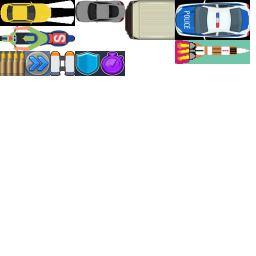
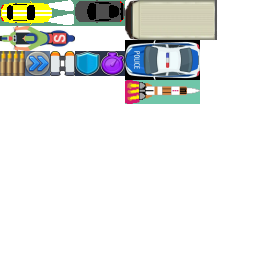
image + idées.

Changed region(s): [[0.4688, 0.0, 1.0, 0.4062], [0.0, 0.0, 0.5, 0.125]]

diff --git a/le_vrai_projet.py b/le_vrai_projet.py
@@ -54,12 +54,48 @@ def save_high_score(score):
     with open("high_score.txt", "w") as file: # Ouverture du fichier ou création du fichier avec le record
         file.write(str(score)) # Insertion du record dans le fichier
 
+def couleurs_jeu():
+    py.colors[0] = 0x000000   # ( noir )
+    py.colors[1] = 0xffffff   # (  blanc )   #blanc -> Touches + phares voiture
+    py.colors[2] = 0xffff00   # (  jaune )   #jaune -> voiture + munitions + fusee
+    py.colors[3] = 0x0000ff   # (  bleu )   #bleu -> police + shield + dash
+    py.colors[4] = 0xff0000   # (  rouge )   #rouge -> fusee + police
+    py.colors[5] = 0x787878   # (  gris )   #gris -> dash + ennemi_1 + fusee
+    py.colors[6] = 0xff9600   # (  orange )   #orange -> fusee x2
+    py.colors[7] = 0xff00ff   # (  violet )   #violet -> slow
+    py.colors[8] = 0x00ff00   # (  vert )   # moto
+    # 9 = 0x    (   )   #
+    # 10 = 0x    (   )   #
+    # 11 = 0x    (   )   #
+    # 12 = 0x    (   )   #
+    # 13 = 0x    (   )   #
+    # 14 = 0x    (   )   #
+    py.colors[15] = 0x5ea080   # (  couleur moche ) # Couleur "inutile", servira à faire le fond des documents ressources et à l'utiliser comme couleur transparente.
 
+couleurs_jeu()
+
+def reinitialiser_couleur():
+    py.colors[0] = 0x000000
+    py.colors[1] = 0x2b335f
+    py.colors[2] = 0x7e2072
+    py.colors[3] = 0x19959c
+    py.colors[4] = 0x8b4852
+    py.colors[5] = 0x395c98
+    py.colors[6] = 0xa9c1ff
+    py.colors[7] = 0xeeeeee
+    py.colors[8] = 0xd4186c
+    py.colors[9] = 0xd38441
+    py.colors[10] = 0xe9c35b
+    py.colors[11] = 0X70c6a9
+    py.colors[12] = 0x7696de
+    py.colors[13] = 0xa3a3a3
+    py.colors[14] = 0xff9798
+    py.colors[15] = 0xedc7b0
 
 def initialisation_valeur_jeu():
     global SCORE_COLOR, menu_active, show_settings, affichage_debut, x_joueur, y_joueur, vivant, game_over, liste_obstacles_1, liste_obstacles_2, liste_obstacles_3, liste_obstacles_4, liste_bonus, obstacle_interval, score, obstacle_genere, vitesse_de_deplacement_ennemi, dash, fusee, tps_fusee, rayon_onde, liste_onde, mode_onde, fusee_ready, fusee_get, calibrage, liste_missiles, liste_explosion, rayon_explosion, tps_slow, nb_missiles, shield, liste_nid, high_score
     
-    SCORE_COLOR = 7
+    SCORE_COLOR = 1
     menu_active = False
     show_settings = False
     affichage_debut = True
@@ -187,7 +223,7 @@ def affichage_debut_jeu():
     if py.frame_count % 30 > 20:
         col = 0
     else:
-        col=7
+        col=1
 
     py.text(260,180,"PRESS ENTER TO START",col)
 
@@ -217,20 +253,20 @@ def update_settings():
             return_to_menu()
 
 def draw_settings():
-    py.text(50, 30, "Settings", 7)
+    py.text(50, 30, "Settings", 1)
     
-    py.blt(90 , 100 , 1 , 0 , 193 , 205 , 30) #Config 1
-    py.blt(90 , 200 , 1 , 0 , 223 , 207 , 30)  #Config 2
-    py.blt(300 , 20 , 1 , 0 , 150 , 150 , 44)#Touches deplacement
-    py.blt(470 , 20 , 1 , 150 , 136 , 106 , 49)#touches bonus
-    py.blt(315 , 80 , 1 , 0 , 0 , 128 , 78)#touches dp 1 zqsd
-    py.blt(315 , 180 , 1 , 128 , 0 , 128 , 80)#touches dp 2 flèches
-    py.blt(460 , 82 , 1 , 0 , 78 , 128 , 72)#touches bonus 1 aer
-    py.blt(460 , 190 , 1 , 128 , 80 , 128 , 56)#touches bonus 2 :!
+    py.blt(90 , 100 , 1 , 0 , 193 , 205 , 30, 15) #Config 1
+    py.blt(90 , 200 , 1 , 0 , 223 , 207 , 30, 15)  #Config 2
+    py.blt(300 , 20 , 1 , 0 , 150 , 150 , 44, 15)#Touches deplacement
+    py.blt(470 , 20 , 1 , 150 , 136 , 106 , 49, 15)#touches bonus
+    py.blt(315 , 80 , 1 , 0 , 0 , 128 , 78, 15)#touches dp 1 zqsd
+    py.blt(315 , 180 , 1 , 128 , 0 , 128 , 80, 15)#touches dp 2 flèches
+    py.blt(460 , 82 , 1 , 0 , 78 , 128 , 72, 15)#touches bonus 1 aer
+    py.blt(460 , 190 , 1 , 128 , 80 , 128 , 56, 15)#touches bonus 2 :!
     
-    retour_color = 7
+    retour_color = 1
     if 240 <= py.mouse_y <= 260 and 45 <= py.mouse_x <= 95:
-        retour_color = 11  # Change la couleur du bouton "Retour" si la souris le survole
+        retour_color = 4  # Change la couleur du bouton "Retour" si la souris le survole
     py.rectb(45, 240, 50, 20, retour_color)
     py.text(50, 250, "Back", retour_color)
 
@@ -251,20 +287,20 @@ def update_menu():
 def draw_menu():
     global col1
     
-    py.text(50, 30, "MIDNIGHT DRIVE", 7)
-    py.text(125, 50, "A game developed by Famoso Engine", 7)
+    py.text(50, 30, "MIDNIGHT DRIVE", 1)
+    py.text(125, 50, "A game developed by Famoso Engine", 1)
     
-    start_color = 7
-    quit_color = 7
-    settings_color = 7
+    start_color = 1
+    quit_color = 1
+    settings_color = 1
 
     if 75 <= py.mouse_x <= 125:
         if 80 <= py.mouse_y <= 100:
-            start_color = 11  # Change la couleur du bouton "Démarrer" si la souris le survole
+            start_color = 4  # Change la couleur du bouton "Démarrer" si la souris le survole
         elif 110 <= py.mouse_y <= 130:
-            settings_color = 11  # Change la couleur du bouton "Paramètres" si la souris le survole
+            settings_color = 4  # Change la couleur du bouton "Paramètres" si la souris le survole
         elif 140 <= py.mouse_y <= 160:
-            quit_color = 11  # Change la couleur du bouton "Quitter" si la souris le survole
+            quit_color = 4  # Change la couleur du bouton "Quitter" si la souris le survole
 
     py.rectb(75, 80, 50, 20, start_color)
     py.text(84, 85, "Drive", start_color)
@@ -273,15 +309,15 @@ def draw_menu():
     py.rectb(75, 140, 50, 20, quit_color)
     py.text(86, 145, "Leave", quit_color)
     
-    py.rectb(380, 120, 210, 170, 8)
-    py.text(470 , 135 , "NEWS" , 6)
-    py.text(390, 155, "- Press ALT + 9 to switch between 3 screen modes", 7)
-    py.text(390, 175, "- The game is still in developpment, some bugs",7)
-    py.text(390,195,"can still appear.", 7)
+    py.rectb(380, 120, 210, 170, 4)
+    py.text(470 , 135 , "NEWS" , 4)
+    py.text(390, 155, "- Press ALT + 9 to switch between 3 screen modes", 1)
+    py.text(390, 175, "- The game is still in developpment, some bugs",1)
+    py.text(390,195,"can still appear.", 1)
     
-    py.blt( 200 , 200, 0 , 0 , 0 , 75 , 26, 0)
+    py.blt( 200 , 200, 0 , 0 , 0 , 75 , 26, 15)
     
-    py.text(500,293,"Actual version: 0.1.1", 7)
+    py.text(500,293,"Actual version: 0.1.1", 1)
     
     if py.frame_count % 2 == 0:
         col1 += 1
@@ -775,7 +811,7 @@ def explosion():
             
 def lancer_missiles():
     global nb_missiles
-    if py.btnp(py.KEY_SPACE) or py.btnp(py.KEY_E) and nb_missiles > 0:
+    if (py.btnp(py.KEY_SPACE) and nb_missiles > 0) or (py.btnp(py.KEY_E) and nb_missiles > 0):
         nb_missiles -= 1
         liste_missiles.append([x_joueur + PLAYER_WIDTH, y_joueur + PLAYER_HEIGHT/3])
         liste_missiles.append([x_joueur + PLAYER_WIDTH, y_joueur + (PLAYER_HEIGHT/3)*2])
@@ -1078,7 +1114,7 @@ def Fin():
     if py.frame_count % 30 > 20:
         col = 0
     else:
-        col=7
+        col=1
 
     py.text(WINDOW_WIDTH // 2, WINDOW_HEIGHT - 70, "Press R to restart and M to go to the menu", col)
 
@@ -1105,39 +1141,39 @@ def draw_jeu():
             liste_onde.append([x_joueur, y_joueur])
             mode_onde = False
         elif fusee_ready == False:
-            py.rect(x_joueur, y_joueur, PLAYER_WIDTH, PLAYER_HEIGHT, 7)
+            py.rect(x_joueur, y_joueur, PLAYER_WIDTH, PLAYER_HEIGHT, 1)
         else:
-            py.blt (x_joueur , y_joueur, 0 , 175 , 40 , 75, 24, 11)
+            py.blt (x_joueur , y_joueur, 0 , 175 , 40 , 75, 24, 15)
  
         
     else:
-        py.blt( x_joueur , y_joueur +1, 0 , 0 , 0 , 75 , PLAYER_HEIGHT, 0)
+        py.blt( x_joueur , y_joueur +1, 0 , 0 , 0 , 75 , PLAYER_HEIGHT, 15)
     
     for obstacle in liste_obstacles_1 :
-        py.blt(obstacle[0] , obstacle[1], 0 , 75, 0, OBSTACLE_WIDTH_1 , OBSTACLE_HEIGHT_1)
+        py.blt(obstacle[0] , obstacle[1], 0 , 75, 0, OBSTACLE_WIDTH_1 , OBSTACLE_HEIGHT_1, 15)
     for obstacle in liste_obstacles_2 :
-        py.blt(obstacle[0] , obstacle[1], 0 , 0 , 26 , OBSTACLE_WIDTH_2, OBSTACLE_HEIGHT_2)
+        py.blt(obstacle[0] , obstacle[1], 0 , 0 , 26 , OBSTACLE_WIDTH_2, OBSTACLE_HEIGHT_2, 15)
     for obstacle in liste_obstacles_3 :
-        py.blt(obstacle[0] , obstacle[1], 0 , 125 , 0 , OBSTACLE_WIDTH_3, OBSTACLE_HEIGHT_3)
+        py.blt(obstacle[0] , obstacle[1], 0 , 125 , 0 , OBSTACLE_WIDTH_3, OBSTACLE_HEIGHT_3, 15)
     for obstacle in liste_obstacles_4 :
         if py.frame_count % 30 < 15 :
-            py.blt(obstacle[0] , obstacle[1], 0 , 175 , 0 , OBSTACLE_WIDTH_4, OBSTACLE_HEIGHT_4)
+            py.blt(obstacle[0] , obstacle[1], 0 , 175 , 0 , OBSTACLE_WIDTH_4, OBSTACLE_HEIGHT_4, 15)
 
     for bonus in liste_bonus :
         if bonus[2] == 0:
-            py.blt(bonus[0], bonus[1], 0 , 0 , 51, 25 , 25)
+            py.blt(bonus[0], bonus[1], 0 , 0 , 51, 25 , 25, 15)
         elif bonus[2] == 1:
-            py.blt(bonus[0], bonus[1], 0 , 25 , 51, 25 , 25)
+            py.blt(bonus[0], bonus[1], 0 , 25 , 51, 25 , 25, 15)
         elif bonus[2] == 2:
-            py.blt(bonus[0], bonus[1], 0 , 50 , 51, 25 , 25)
+            py.blt(bonus[0], bonus[1], 0 , 50 , 51, 25 , 25, 15)
         elif bonus[2] == 3:
-            py.blt(bonus[0], bonus[1], 0 , 75 , 51, 25 , 25)
+            py.blt(bonus[0], bonus[1], 0 , 75 , 51, 25 , 25, 15)
         else:
-            py.blt(bonus[0], bonus[1], 0 , 100 , 51, 25 , 25)
+            py.blt(bonus[0], bonus[1], 0 , 100 , 51, 25 , 25, 15)
     for nid in liste_nid : 
-        py.rect(nid[0], nid[1], 2 * BONUS_WIDTH, 2 * BONUS_HEIGHT, 8)
+        py.rect(nid[0], nid[1], 2 * BONUS_WIDTH, 2 * BONUS_HEIGHT, 4)
     for missile in liste_missiles :
-        py.rect(missile[0], missile[1], missile_width, missile_height, 10)
+        py.rect(missile[0], missile[1], missile_width, missile_height, 2)
     
     explosion()
     
@@ -1189,7 +1225,7 @@ def recommencer():
     shield = 0
     liste_nid = []
     high_score = load_high_score()
-    SCORE_COLOR = 7
+    SCORE_COLOR = 1
     
 def retour_au_menu():
     global menu_active, show_settings, affichage_debut, x_joueur, y_joueur, vivant, game_over, liste_obstacles_1, liste_obstacles_2, liste_obstacles_3, liste_obstacles_4, liste_bonus, obstacle_interval, score, obstacle_genere, vitesse_de_deplacement_ennemi, dash, fusee, tps_fusee, rayon_onde, liste_onde, mode_onde, fusee_ready, fusee_get, calibrage, liste_missiles, liste_explosion, rayon_explosion, rayon_max, tps_slow, missile_width, missile_height, nb_missiles, shield, liste_nid, high_score, SCORE_COLOR
@@ -1227,7 +1263,7 @@ def retour_au_menu():
     shield = 0
     liste_nid = []
     high_score = load_high_score()
-    SCORE_COLOR = 7
+    SCORE_COLOR = 1
 
 def update():
     global vivant

diff --git a/OTHER/test_file_projet.py b/OTHER/test_file_projet.py
@@ -1,24 +1,3 @@
-"""
-Reste à faire : 
-
-Faire le reste
-
-Plus smooth
-
-Faire aussi la sauvegarde du meilleur score et son affichage au début.
-"""
-
-"""
-- start bouton
-- Quite bouton
-- Nom du jeu en grand en haut au milieu
-- Settings bouton -> Les touches 
-- Mettre la voiture a l'opposé des boutons
-- Fond ?
-- Affichage du meilleur score.
-
-"""
-
 import os
 chemin_script = os.path.dirname(os.path.abspath(__file__)) # Récupérer le chemin absolu du répertoire contenant le script Python en cours d'exécution
 nom_bibliotheque = "librairies" # Nom de la bibliothèque
@@ -29,28 +8,12 @@ sys.path.append(chemin_bibliotheque) # Faire en sorte que les fichiers de chemin
 
 import pyxel as py
 
-py.init(300,300,title='C')
+py.init(300,300,title='TEST')
 
 def update():
-    py.colors[0] = 0x000000
-    py.colors[1] = 0x2b335f
-    py.colors[2] = 0x7e2072
-    py.colors[3] = 0x19959c
-    py.colors[4] = 0x8b4852
-    py.colors[5] = 0x395c98
-    py.colors[6] = 0xa9c1ff
-    py.colors[7] = 0xeeeeee
-    py.colors[8] = 0xd4186c
-    py.colors[9] = 0xd38441
-    py.colors[10] = 0xe9c35b
-    py.colors[11] = 0X70c6a9
-    py.colors[12] = 0x7696de
-    py.colors[13] = 0xa3a3a3
-    py.colors[14] = 0xff9798
-    py.colors[15] = 0xedc7b0
+    return None
 
 def draw():
-    for i in range(16):
-        py.rect(10+i*10,100,10,10,i)
+    return None
 
 py.run(update,draw)
